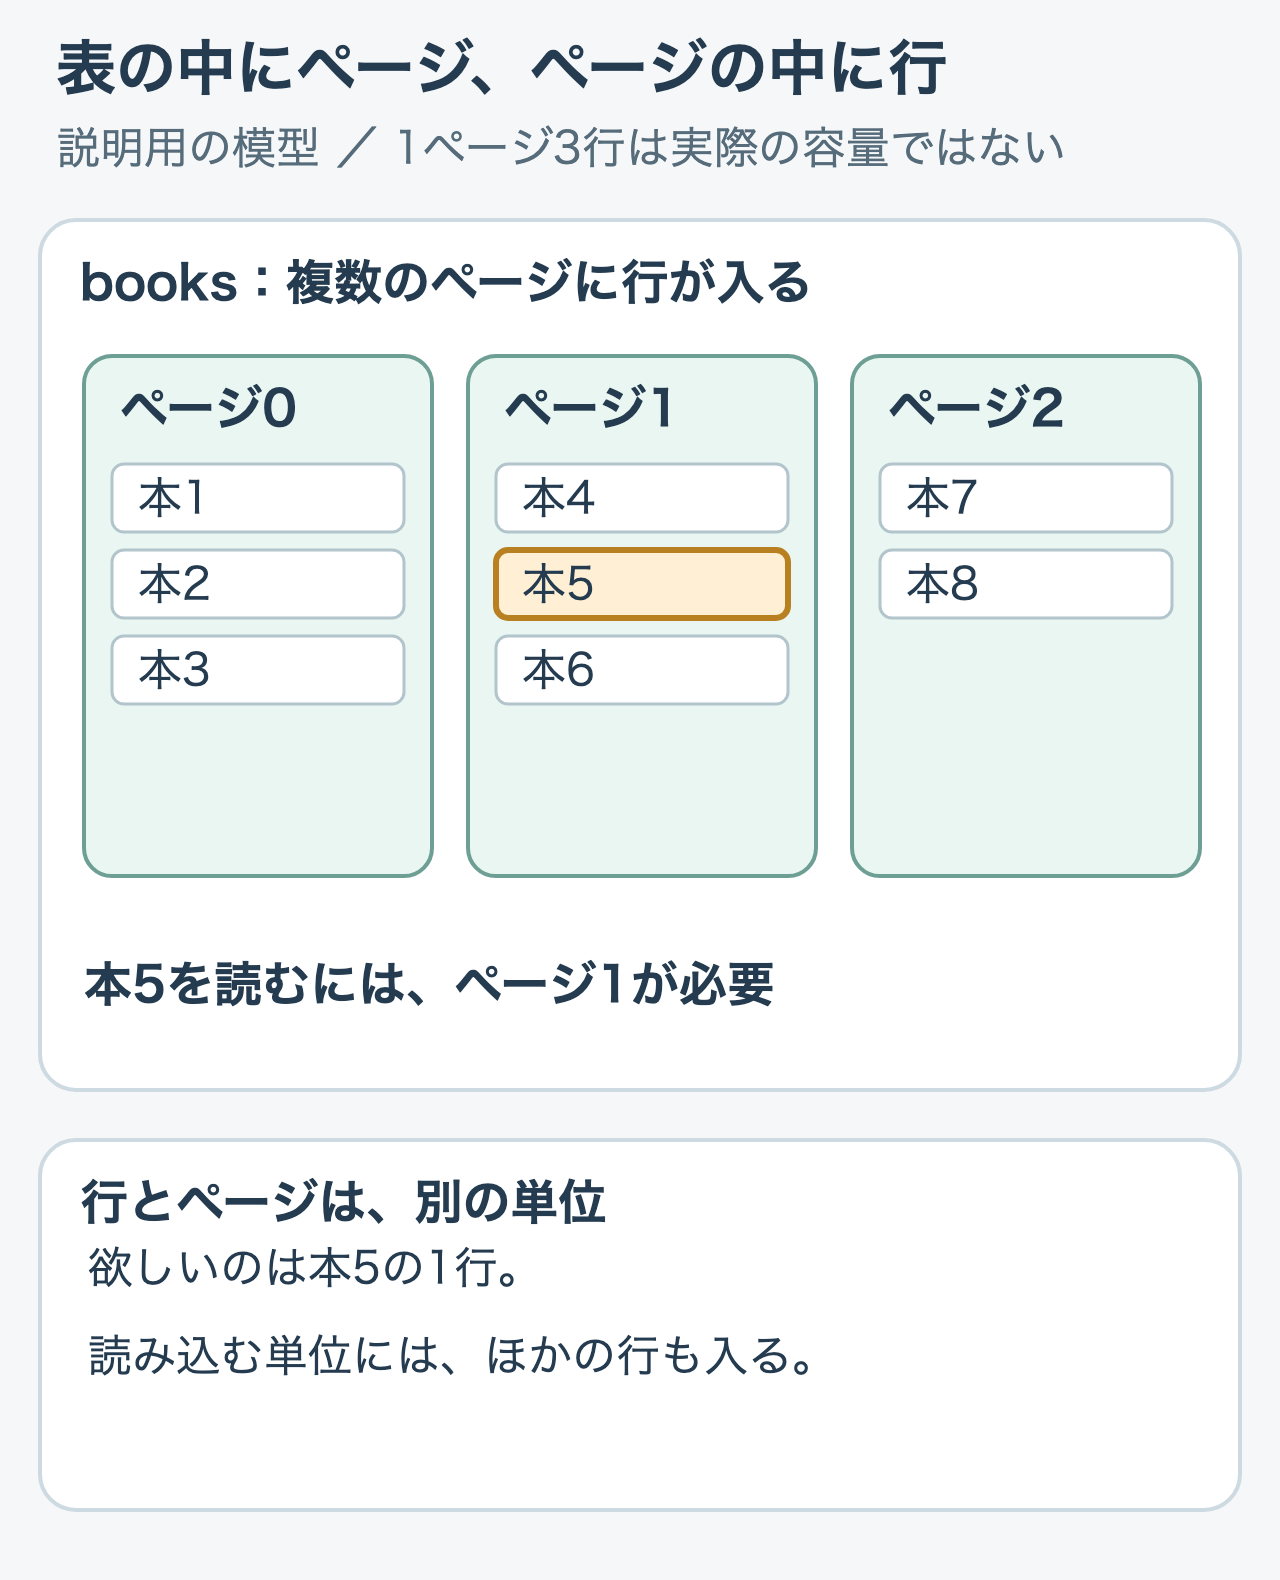
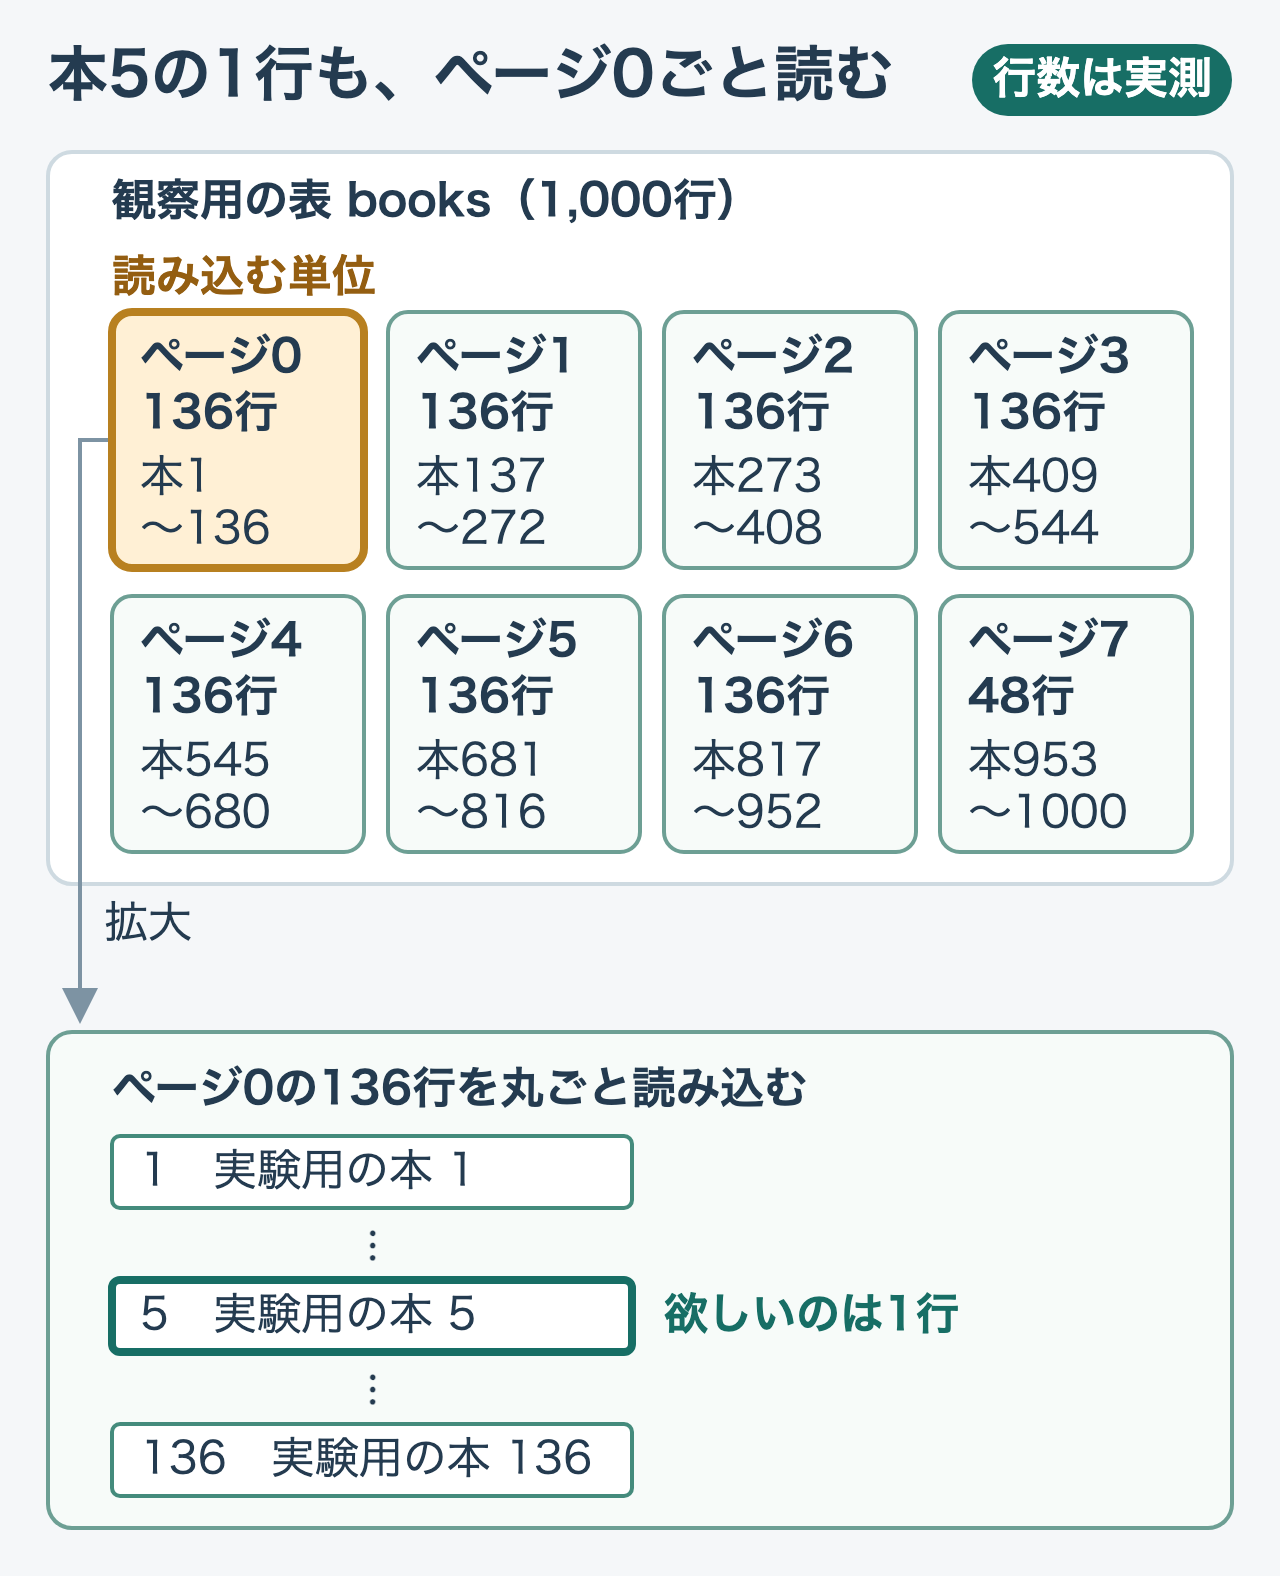
docs(query-journey): 第4章のページと行の図を、実測どおりのページで描き直す
1ページ3行の模型では、本4〜6をページ1に置いていて、後の ctid の出力（本1〜8がページ0）と食い違っていた。2026-09-25 に同じ手順の表で数えたページごとの行数（ページ0〜6に136行、ページ7に48行）で描き、図の前後の文とキャプションも合わせた。

Changed region(s): [[0.0312, 0.0, 0.9688, 0.9638], [0.9375, 0.6529, 0.9688, 0.9638]]

diff --git a/books/postgresql-query-journey/04-pages-and-storage.md b/books/postgresql-query-journey/04-pages-and-storage.md
@@ -132,12 +132,12 @@ SHOW block_size;
 
 表のデータは、ページという一定の大きさの領域に分けて保存されます。行を読むときも、その行を含むページが読み込みの単位になります。
 
-ここでは説明のため、1ページに3行入る小さな模型を使います。実際に何行入るかは、行の大きさなどで変わります。
+観察用の表の1,000行が、8ページにどう入っているかを見てください。1ページに何行入るかは、行の大きさなどで変わります。
 
-![表の中にページ、ページの中に行](/images/postgresql-query-journey/03-pages-and-rows.png)
-*説明用の模型。1ページ3行は実際の容量ではありません。*
+![1,000行の表が8ページに分かれ、本5の入ったページ0を丸ごと読み込む](/images/postgresql-query-journey/03-pages-and-rows.png)
+*太枠のページ0と、その中の本5を見てください（ページごとの行数は2026年9月25日の実測）。*
 
-本5を読みたいなら、その本が入ったページ1が必要です。欲しいのが本5の1行だけでも、読み込むのは本4〜6の入ったページ1全体です。
+本5を読みたいなら、その本が入ったページ0が必要です。欲しいのが本5の1行だけでも、読み込むのは本1〜136の入ったページ0全体です。
 
 実際のページには、行そのものに加えて、ページ内のどこに各行があるかを記録する情報と、空き領域があります。この位置の情報を、次に`ctid`で確かめます。
 
